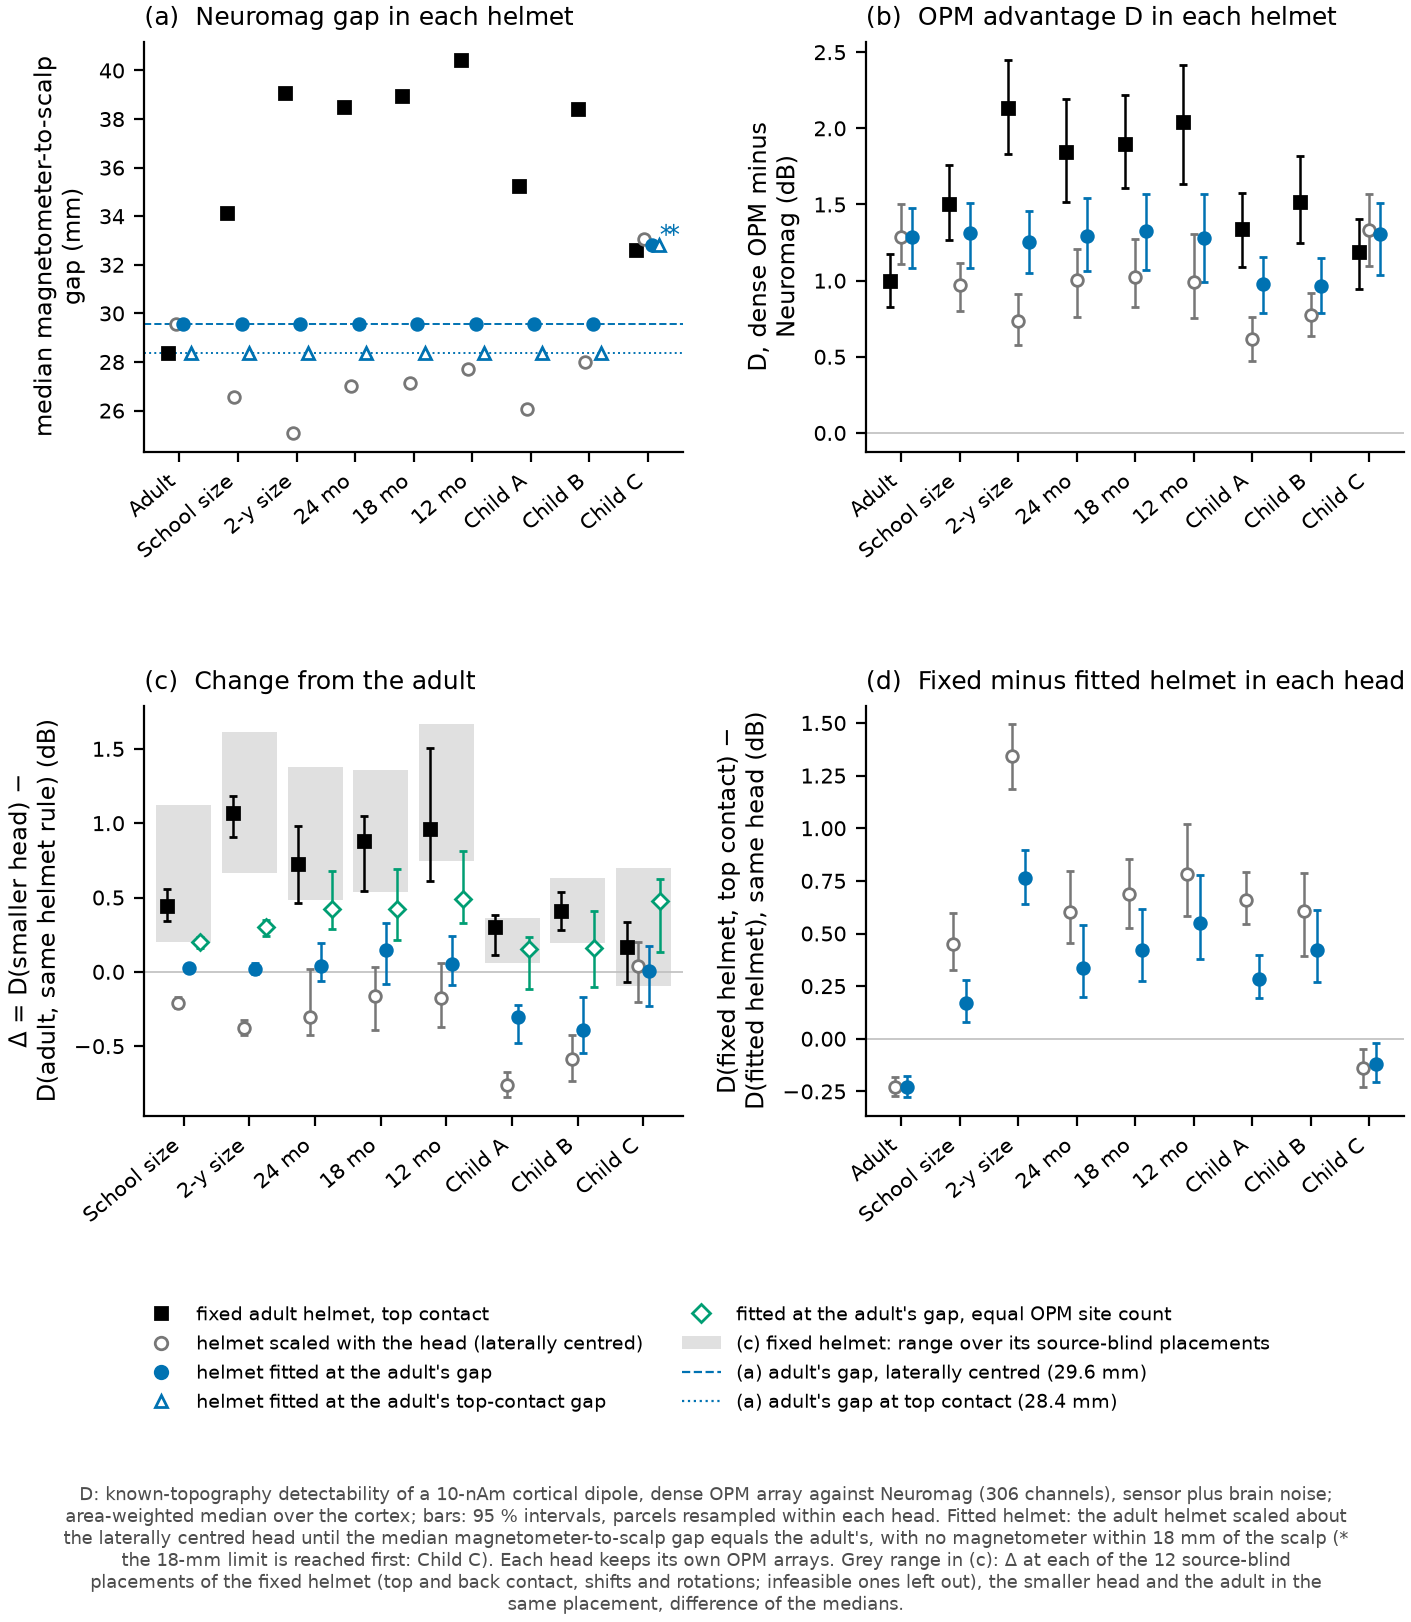
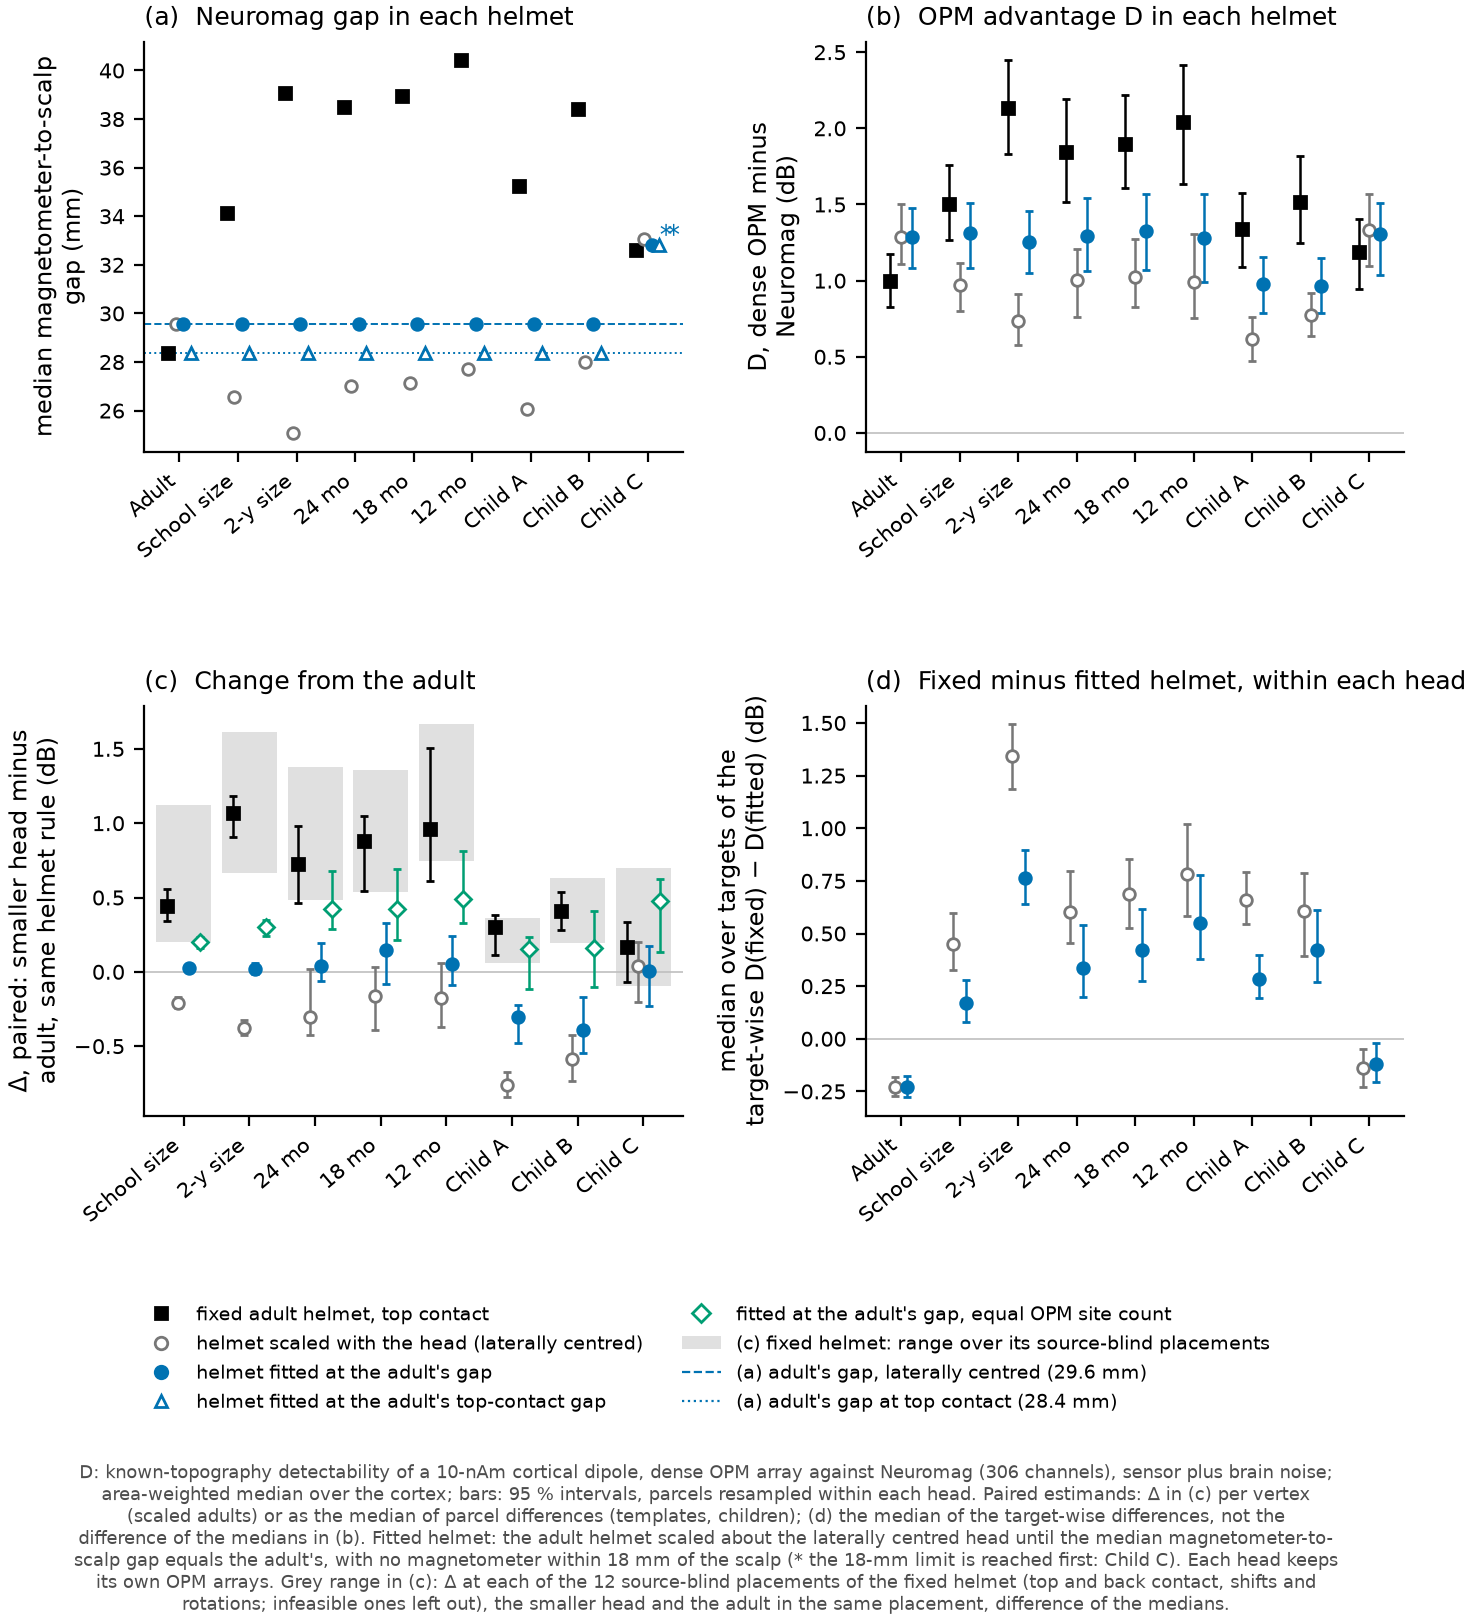
Figures 7 and 8 redrawn at 73906b4 (Figure 7: paired-estimand labels; Figure 8: page height, nominal rate); Figure 3's joint-run legend shortened to keep the page width

diff --git a/scripts/report_figures_noise.py b/scripts/report_figures_noise.py
@@ -455,8 +455,8 @@ def panel_d(sf, ns, pub):
          Line2D([], [], color="0.25", lw=1.5, ls=SWEEP_LS[PR], label=f"after the {n_ext(ns)}-term projection"),
          Patch(color="0.5", alpha=0.28, lw=0, label="95 % intervals (bands)"),
          Line2D([], [], color="0.25", lw=1.25, ls=ADVERSE_LS,
-                label=f"joint run: near-skull cortex + {ns['config']['sensitivity']['joint']['corner_hz']:g}-Hz\n"
-                      "corner, frequency-resolved (sensor plus brain noise)"),
+                label=f"joint run: near-skull cortex\n+ {ns['config']['sensitivity']['joint']['corner_hz']:g}-Hz corner, "
+                      "frequency-resolved"),
          Line2D([], [], color="0.25", lw=0, marker="D", ms=4.4, label="break-even level, 95 % interval (filled: sensor\n"
                 "plus brain noise; open: after the projection)"),
          Line2D([], [], color="0.7", lw=0.8, label=f"primary model's level ({prim:g} fT/√Hz)")]
